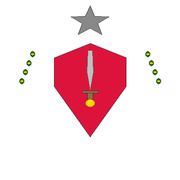
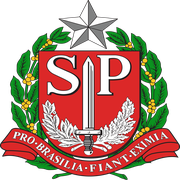
fix: usar imagens reais de public/images
IMPLEMENTADO:

✓ Logo Secretaria da Saúde SP (public/images/secretaria-saude-sp.png)
✓ Brasão de São Paulo (public/images/brasao-sp.png)
✓ Favicon gerado a partir do brasão real
✓ Apple icon gerado a partir do brasão real
✓ Icons 32x32 gerados a partir do brasão real

Arquivos utilizados:
- /public/images/brasao-sp.png (570K)
- /public/images/secretaria-saude-sp.png (34K)

Favicon adicionado ao cabeçalho da aplicação

Build: ✓ Compiled successfully

diff --git a/app/page.tsx b/app/page.tsx
@@ -492,7 +492,7 @@ ${resultado?.memoriaCalculo.join("\n") || ""}
         {/* Logo Secretaria da Saúde SP */}
         <div className="text-center mb-8">
           <img 
[1 lines of base64/hex data omitted]
+            src="/images/secretaria-saude-sp.png" 
             alt="Secretaria da Saúde - São Paulo" 
             className="w-full max-w-4xl mx-auto mb-6"
             style={{maxHeight: '120px'}}
